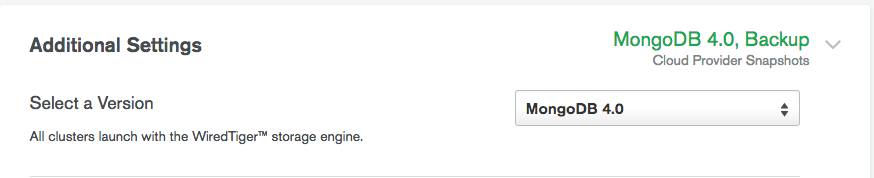
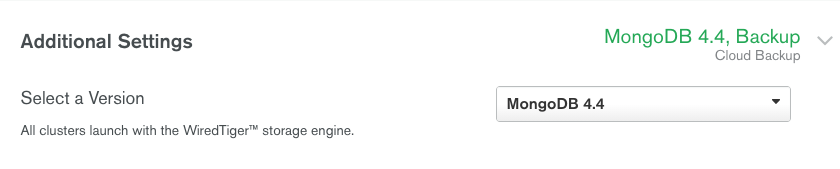
(DOCSP-14057): use mongodb 4.4 as the default (#2096)
* (DOCSP-14057): use mongodb 4.4 as the default

* (DOCSP-14057): copy review feedback

diff --git a/source/includes/api/list-tables/create-cluster-request-body.rst b/source/includes/api/list-tables/create-cluster-request-body.rst
@@ -317,10 +317,10 @@
        - **4.2**
        - **4.4**
 
-       You must set this value to **4.4** if
-       **"providerSettings.instanceSizeName" : "M2"** or **"M5"**.
+       If omitted, |service| deploys a cluster that runs MongoDB 4.4.
 
-       .. include:: /includes/admonitions/version-4.4-shared-tier-exception.rst
+       You must deploy MongoDB **4.4** if
+       **"providerSettings.instanceSizeName" : "M2"** or **"M5"**.
 
        |service| always deploys the cluster with the latest stable
        release of the specified version. You can upgrade to a newer

diff --git a/source/includes/api/list-tables/modify-cluster-request-body.rst b/source/includes/api/list-tables/modify-cluster-request-body.rst
@@ -331,11 +331,8 @@
        - **4.2**
        - **4.4**
 
-       You must set this value to **4.4** if
-       **providerSettings.instanceSizeName**
-       is either **M2** or **M5**.
-
-       .. include:: /includes/admonitions/version-4.4-shared-tier-exception.rst
+       You must deploy MongoDB **4.4** if
+       **"providerSettings.instanceSizeName" : "M2"** or **"M5"**.
 
        |service| always deploys the cluster with the latest stable
        release of the specified version. You can upgrade to a newer

diff --git a/source/includes/fact-free-tier-paid-tier.rst b/source/includes/fact-free-tier-paid-tier.rst
@@ -4,7 +4,5 @@ Tier cluster, an ``M2`` or ``M5`` shared starter cluster, and an
 
 .. include:: /includes/list-table-free-paid-compare.rst
 
-.. include:: /includes/admonitions/version-4.4-shared-tier-exception.rst
-
 For a complete list of M0 (Free Tier), M2, and M5 limitations, 
 see :ref:`atlas-free-tier`.

diff --git a/source/includes/list-table-free-paid-compare.rst b/source/includes/list-table-free-paid-compare.rst
@@ -16,8 +16,8 @@
      - | 10 - 4000 GB
 
    * - MongoDB Version Support
-     - 4.2, 4.4
-     - 4.2, 4.4
+     - 4.4
+     - 4.4
      - 3.6, 4.0, 4.2, 4.4
 
    * - Metrics and Alerts
